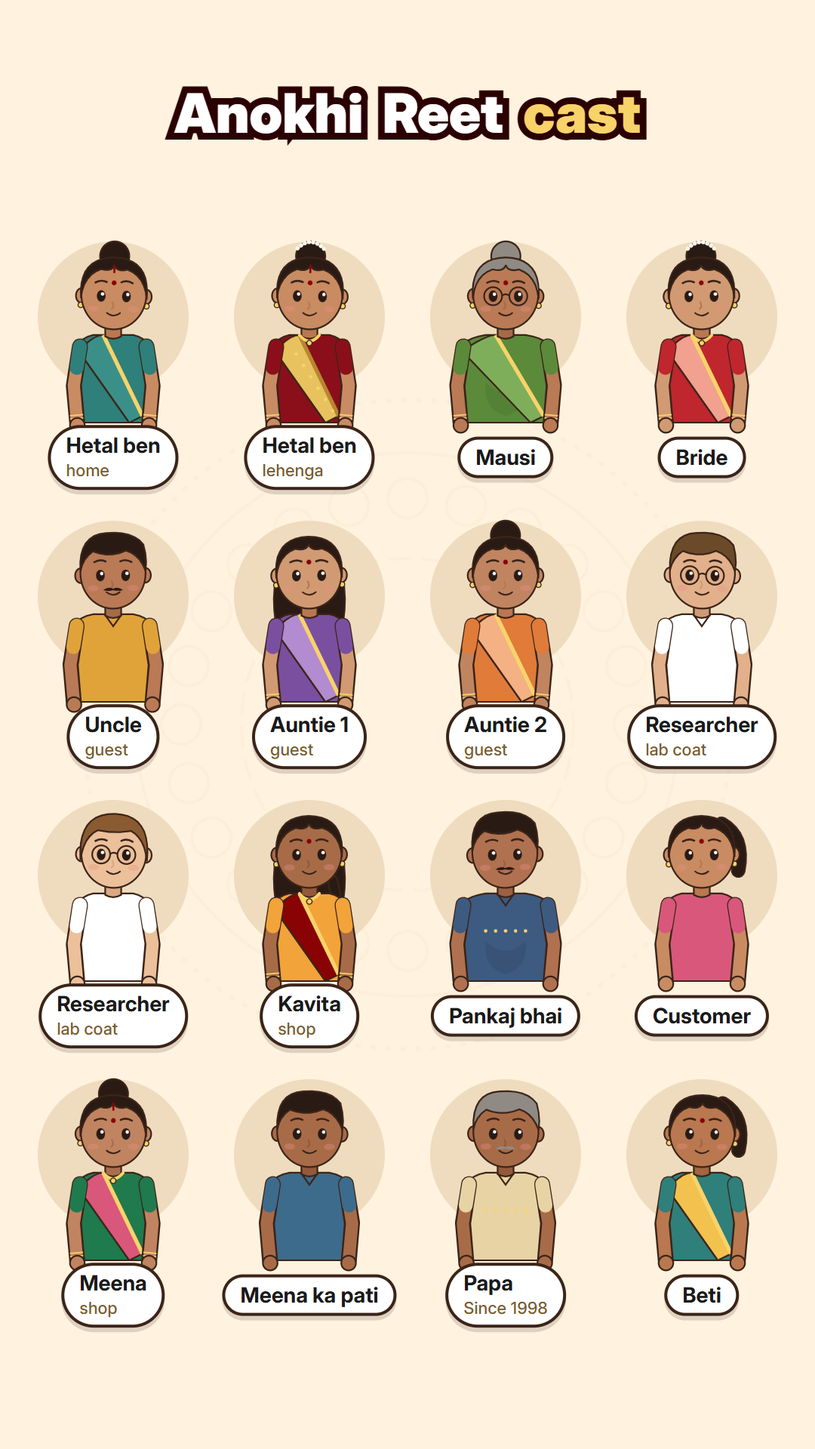
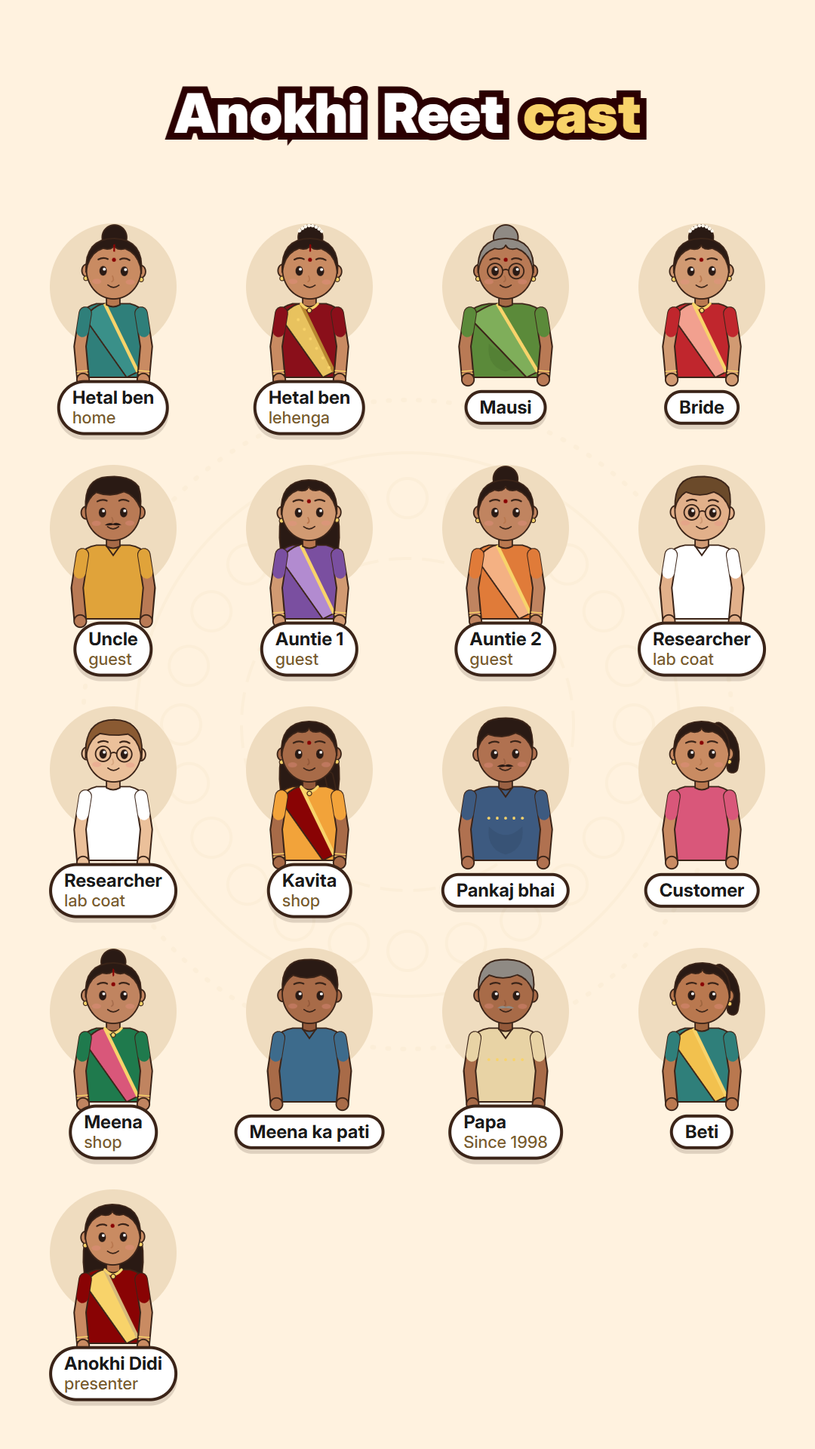
Lehenga 2X: 10 scenes, video 1; coin jar, map spotlight and Anokhi Didi in the library

diff --git a/reels/2026-11-18-lehenga-2x/video/scenes.js b/reels/2026-11-18-lehenga-2x/video/scenes.js
@@ -1,32 +1,131 @@
-// ===== Starter reel: copy this folder into reels/<date>-<name>/video and replace everything with your story =====
-// Characters: animation/cast/cast.js. Rooms, props, helpers: animation/engine/. Guide: animation/GUIDE.md.
+// ===== Lehenga 2X (Anokhi Didi): 11 scenes, timed to the voice (see captions.js) =====
+// Anokhi Didi (DIDI, new) speaks to camera: she lip-syncs (speak) whenever she's on screen.
+const at = (x, y, inner, sc = 1, r = 0) => `<g transform="translate(${x},${y}) rotate(${r}) scale(${sc})">${inner}</g>`;
+const wrap = (id, inner) => `<g id="${id}">${inner}</g>`;
+const BRIDAL = { c: '#C0262D', d: '#97151B', b: C.gold, dupatta: '#F2A08F' };
+const talk = t => t < VOICE_END;
+const listCard = `<rect x="-240" y="-330" width="480" height="560" rx="20" fill="#fff" stroke="#E6E0D9" stroke-width="3"/><rect x="-220" y="-310" width="440" height="330" rx="14" fill="${C.cream}"/>` +
+  `<g transform="translate(0,-150) scale(.75)">${lehengaHangerSVG('', BRIDAL)}</g><text x="-220" y="80" font-family="Inter" font-weight="800" font-size="34" fill="#141110">Bridal lehenga</text>` +
+  `<text x="-220" y="124" font-family="Inter" font-weight="600" font-size="26" fill="#655C57">Size M · L · Ahmedabad</text><rect x="-220" y="150" width="440" height="64" rx="32" fill="url(#mar)"/><text x="0" y="192" text-anchor="middle" font-family="Inter" font-weight="800" font-size="28" fill="#FFF2DF">Book karo</text>`;
+const AREAS = [['Navrangpura', -250, -380], ['Maninagar', 250, 250], ['Bopal', -320, 330], ['Satellite', 260, -260], ['Naroda', 0, 480]];
+const SHOP = [-90, 120], PINS = [[-250, -430], [250, 200], [-320, 280], [260, -310], [0, 430]];
 
-// S1 hook: the strongest picture + an outlined title in the first frame
+// ================= S1: hook — the lehenga can earn double =================
 addScene(0, 'c3', {
-  svg: homeBG('st1', { noWindow: true, noShelf: true, noClock: true }) + `<circle cx="540" cy="800" r="420" fill="url(#glow)"/>` +
-    `<g id="st1-l">${lehengaHangerSVG('st1-lh')}</g>` +
-    `<g transform="translate(790,560)"><g data-t="c2+0.3" data-swing="9">${priceTagSVG('st1-tag', '1 baar?', 0, 0, { fs: 36 })}</g></g>`,
-  html: `<div class="title" style="top:392px">Shaadi ka outfit,<br><span class="g">kitni baar?</span></div>`,
-  cam: [1, 1.05], fy: 800,
-  upd(t) { tf($('st1-l'), 540, 720 + Math.sin(t * 1.4) * 6, 1.25, noise(t, 1) * 2, 0, -80); }
+  svg: `<rect width="${W}" height="${H}" fill="${C.cream}"/>` + rosettes('d1-r', 540, 900, .12, C.goldTan) + `<circle cx="540" cy="900" r="460" fill="url(#glow)"/>` +
+    `<g id="d1-l">${at(0, 0, lehengaHangerSVG('d1-lh', BRIDAL), 1.45)}</g>` + `<rect x="0" y="${FLOOR + 120}" width="${W}" height="${H}" fill="#F3E3C0"/>`,
+  html: `<div class="title" style="top:470px;font-size:220px;-webkit-text-stroke:26px #2b0001"><span class="g">2X</span></div>` +
+    `<div class="title" style="top:640px;font-size:64px" data-t="c2">kamaai <span class="g">doguna!</span></div>`,
+  cam: [1, 1.05], fy: 900,
+  upd(t) { tf($('d1-r'), 540, 900, 1, t * 6); tf($('d1-l'), 540, 860 + Math.sin(t * 1.4) * 8, 1, noise(t, 2) * 2); }
 });
 
-// S2 meet the character: name pill, a wave, eyes on camera, then a look at the outfit
-addScene('c3', 'c4', {
-  svg: homeBG('st2') + stand('st2h', dress(HETAL.home, { top: C.pink, topD: C.pinkDark, pallu: '#F4B9C8' }), 560, 940, .95),
-  html: pillH(540, 352, 'c3+0.3', 'Surat, <span class="hl">Gujarat</span>'),
+// ================= S2: "Toh guys, ye hai ek bridal lehenga" — ₹25,000 in 2023 =================
+addScene('c3', 'c7', {
+  svg: rentalShopBG('d2', { noMirror: true }) + `<circle cx="300" cy="860" r="320" fill="url(#glow)"/>` + at(300, 760, lehengaHangerSVG('d2-lh', BRIDAL), 1.1) +
+    priceTag('d2-tag', '₹25,000', 300, 560, 'c6', { fs: 40, swing: 12 }) +
+    `<g transform="translate(170,520)"><g data-t="c5+0.3">${at(0, 0, calendarSVG('d2-cal', 'SAAL', '2023'), .5)}</g></g>` + wrap('d2-w', stand('di2', DIDI, 0, 960, .88)),
+  html: pillH(540, 352, 'c3+0.3', '<span class="hl">Bridal</span> lehenga'),
   upd(t) {
-    const w = clamp((t - T('c3')) / .35);
-    const R = [lerp(9, WAVE(t, T('c3'))[0], E.io(w)), lerp(-14, WAVE(t, T('c3'))[1], E.io(w))];
-    life('st2h', t, { mouth: 'big', brows: 'up', R, hR: w > .5 ? 'open' : 'fist', tilt: 4, look: [0.2, 0] });
-    clockTick('st2-clk', t, 50);
+    const [gx, gy] = glide(t, T('c3') - .2, .9, 1200, 770); tf($('d2-w'), gx, gy, 1);
+    const w = clamp((t - T('c3') - .6) / .3) * (1 - clamp((t - T('c4')) / .3)), pt = t > T('c4');
+    life('di2', t, { speak: talk(t), look: pt ? [-0.9, 0] : [0, 0], brows: 'up', tilt: 3, R: [lerp(9, WAVE(t, T('c3'))[0], E.io(w)), lerp(-14, WAVE(t, T('c3'))[1], E.io(w))], hR: w > .5 ? 'open' : 'fist', L: pt ? [72, 2] : [9, -14], hL: 'point' });
   }
 });
 
-// S3 follow card
-addScene('c4', 9999, {
-  svg: homeBG('st3', { noWindow: true, noShelf: true, noClock: true }) + rosettes('st3-r', 540, 780, .1, C.goldTan) + bust('st3h', HETAL.home, 540, FLOOR + 10, 1.1) + counterSVG(),
-  html: `<div class="follow" style="left:540px;top:500px" data-t="c4+0.2"><img class="seal" src="${SEAL()}"><span class="nm">Anokhi Reet</span><span class="btn">Follow</span></div>`,
-  noWm: true, tin: .3, trans: 'rise',
-  upd(t) { tf($('st3-r'), 540, 780, 1, t * 5); life('st3h', t, { pivot: 0, mouth: 'grin', brows: 'up', tilt: 4, L: CLASP, R: CLASP }); }
+// ================= S3: ₹2,500 rent — 10 times = money back, 20 times = double =================
+addScene('c7', 'c12', {
+  svg: `<rect width="${W}" height="${H}" fill="#F3E3C0"/>` + rosettes('d3-r', 540, 900, .07, C.goldTan) +
+    at(300, 900, coinJarSVG('d3-j1', 10, '₹25,000'), 1.15) + at(780, 900, coinJarSVG('d3-j2', 10, '2X'), 1.15) +
+    `<g transform="translate(540,1250)"><g data-t="c8-0.1"><rect x="-150" y="-50" width="300" height="100" rx="50" fill="url(#mar)" stroke="${OL}" stroke-width="${OW}"/><text id="d3-n" y="20" text-anchor="middle" font-family="Inter" font-weight="900" font-size="56" fill="${C.gold}">0 baar</text></g></g>`,
+  html: pillH(540, 352, 'c7', 'Rent: <span class="hl">₹2,500</span>', 'big', 'c9') + pillH(300, 560, 'c9+0.1', 'Paisa <span class="hl">wapas ✓</span>', 'green') +
+    `<div class="title" style="top:430px" data-t="c11">20 baar = <span class="g">2X</span></div>`,
+  upd(t) {
+    jarFill('d3-j1', 10, t, T('c8'), 1.2); jarFill('d3-j2', 10, t, T('c10'), 1.0);
+    const n = t < T('c10') ? Math.round(lerp(0, 10, clamp((t - T('c8')) / 1.4))) : Math.round(lerp(10, 20, clamp((t - T('c10')) / 1.2)));
+    $('d3-n').textContent = `${n} baar`; tf($('d3-r'), 540, 900, 1, t * 5);
+  }
+});
+
+// ================= S4: but it went out only 4 times a year =================
+const MONTHS = ['Jan', 'Feb', 'Mar', 'Apr', 'May', 'Jun', 'Jul', 'Aug', 'Sep', 'Oct', 'Nov', 'Dec'], OUT = [1, 4, 9, 10];
+addScene('c12', 'c15', {
+  svg: shopBG('d4', { noSign: true, noRail: true }) + `<rect width="${W}" height="${H}" fill="#3B2418" opacity=".12"/>` +
+    at(260, 700, lehengaHangerSVG('d4-lh', BRIDAL), 1.0) + at(60, 420, cobwebSVG(1.2)) +
+    MONTHS.map((m, i) => `<g transform="translate(${560 + (i % 4) * 120},${570 + (i / 4 | 0) * 118})"><g data-t="c13+${(i * .12).toFixed(2)}"><rect x="-50" y="-50" width="100" height="100" rx="14" fill="#fff" stroke="${OL}" stroke-width="4"/><rect x="-50" y="-50" width="100" height="30" rx="14" fill="${C.red}"/><text y="30" text-anchor="middle" font-family="Inter" font-weight="800" font-size="28" fill="#141110">${m}</text>${OUT.includes(i) ? `<g data-t="c14+${(.2 + OUT.indexOf(i) * .2).toFixed(1)}"><circle cx="44" cy="-44" r="22" fill="${C.emerald}" stroke="${OL}" stroke-width="3"/><path d="M33,-44 l7,7 14,-14" stroke="#fff" stroke-width="6" fill="none" stroke-linecap="round"/></g>` : ''}</g></g>`).join('') +
+    bust('di4', DIDI, 700, FLOOR + 40, .66) + counterSVG(),
+  html: `<div class="title" style="top:410px" data-t="c14">Saal mein sirf <span class="g">4 baar</span></div>`,
+  upd(t) { life('di4', t, { pivot: 0, speak: talk(t), look: [-0.8, -0.3], brows: t > T('c14') ? 'worry' : 'up', tilt: Math.sin(t * 3) * 3, L: [50, -30], hL: 'open' }); }
+});
+
+// ================= S5: only the street could see it; the rest of the city didn't know =================
+addScene('c15', 'c19', {
+  svg: `<rect width="${W}" height="${H}" fill="#F3E3C0"/><g transform="translate(540,840) scale(.8)">${cityMapSVG('d5-map', AREAS)}${mapSpotSVG('d5-spot')}` +
+    `<g transform="translate(${SHOP[0]},${SHOP[1]})">${mapPinSVG(C.red, 44)}</g>` +
+    [[-30, 60], [-150, 80], [-40, 200]].map(([x, y], i) => `<g transform="translate(${x},${y})"><g data-t="c16+${(.2 + i * .2).toFixed(1)}">${at(0, 0, personIcon([C.pink, C.teal, C.marigold][i]), .8)}</g></g>`).join('') +
+    PINS.map(([x, y], i) => `<g transform="translate(${x},${y + 40})"><g data-t="c17+${(.1 + i * .2).toFixed(1)}"><circle r="40" fill="#fff" stroke="${OL}" stroke-width="4"/><text y="18" text-anchor="middle" font-family="Inter" font-weight="900" font-size="52" fill="${C.red}">?</text></g></g>`).join('') + `</g>`,
+  html: pillH(540, 352, 'c16', 'Sirf <span class="hl">gali</span> ke customers', 'big', 'c17-0.05') + pillH(540, 352, 'c17', 'Baaki shehar: <span class="hl">pata hi nahi</span>', 'big'),
+  init() { mapSpot('d5-spot', SHOP[0], SHOP[1] - 40, 180); },
+  cam: [1, 1.04], fy: 840
+});
+
+// ================= S6: the right platform — Anokhi Reet =================
+addScene('c19', 'c22', {
+  svg: shopBG('d6', { noSign: true }) + bust('di6', DIDI, 330, FLOOR + 30, 1.0) + counterSVG() + wrap('d6-ph', at(0, 0, phoneSVG('d6-p', 0, 0, 560, 1000, arHeader() + listCard), .62)),
+  html: pillH(540, 352, 'c20', 'Ek <span class="hl">sahi platform</span>', 'big', 'c21-0.05') + pillH(540, 352, 'c21', '<span class="hl">Anokhi Reet</span>', 'gold big'),
+  upd(t) {
+    const up = E.back(clamp((t - T('c20') + .2) / .5));
+    const { hr } = life('di6', t, { pivot: 0, speak: talk(t), look: [0.6, -0.2], mouth: 'smile', brows: 'up', tilt: 4, R: [lerp(9, 60, up), lerp(-14, -80, up)], hR: 'fist' });
+    const p = toScene('di6', hr); tf($('d6-ph'), lerp(1300, p[0] + 230, up), p[1] - 200, 1, -4 * up); op($('d6-ph'), up > 0 ? 1 : 0);
+  }
+});
+
+// ================= S7: list it once — the whole city can see it =================
+addScene('c22', 'c25', {
+  svg: `<rect width="${W}" height="${H}" fill="#F3E3C0"/><g transform="translate(540,840) scale(.8)">${cityMapSVG('d7-map', AREAS)}${mapSpotSVG('d7-spot')}` +
+    PINS.map(([x, y], i) => `<path id="d7-l${i}" d="M${x},${y} L${SHOP[0]},${SHOP[1]}" stroke="${C.red}" stroke-width="6" stroke-dasharray="14 10" fill="none" opacity="0"/>`).join('') +
+    `<circle cx="${SHOP[0]}" cy="${SHOP[1] - 40}" r="150" fill="url(#glow)"/><g transform="translate(${SHOP[0]},${SHOP[1]})">${mapPinSVG(C.red, 44)}</g>` +
+    PINS.map(([x, y], i) => `<g transform="translate(${x},${y})"><g data-t="c24+${(i * .2).toFixed(1)}" data-k="drop">${mapPinSVG(C.emerald, 30)}</g></g>`).join('') + `</g>`,
+  html: pillH(540, 352, 'c22', 'Ek baar <span class="hl">list karo</span>', 'big', 'c24-0.05') + pillH(540, 352, 'c24', '<span class="hl">Poora shehar</span> dekh sakta hai', 'big') +
+    `<div class="pill" style="left:540px;top:1230px" data-t="c24+0.8" data-k="slideL">✓ New booking · <span class="hl">Satellite</span></div>`,
+  cam: [1, 1.04], fy: 840,
+  upd(t) {
+    { const k = E.io(clamp((t - T('c23')) / 1.6)); mapSpot('d7-spot', SHOP[0], SHOP[1] - 40, lerp(180, 520, k)); op($('d7-spot'), 1 - k); }
+    PINS.forEach((_, i) => { const k = clamp((t - T('c24') - .2 - i * .2) / .4); const el = $('d7-l' + i); op(el, k); el.setAttribute('stroke-dashoffset', (-t * 30).toFixed(0)); });
+  }
+});
+
+// ================= S8: you list; showing it to the whole city is our job =================
+addScene('c25', 'c28', {
+  svg: rentalShopBG('d8', { noMirror: true }) + `<circle cx="540" cy="820" r="460" fill="url(#glow)" opacity=".6"/>` + bust('di8', DIDI, 540, FLOOR + 20, 1.1) + counterSVG(),
+  html: pillH(540, 352, 'c25+0.2', 'Aap: <span class="hl">list karo</span>', 'big') + pillH(540, 466, 'c26+0.2', 'Anokhi Reet: <span class="hl">shehar ko dikhana</span>', 'gold big'),
+  upd(t) {
+    const me = t > T('c26');
+    life('di8', t, { pivot: 0, speak: talk(t), look: [0, 0], mouth: 'smile', brows: 'up', tilt: 3, R: me ? [9, -14] : [70, 4], hR: 'point', L: me ? CLASP : [9, -14], nod: me ? Math.max(0, Math.sin((t - T('c27')) * 6)) * 6 : 0 });
+  }
+});
+
+// ================= S9: just trust, and a little time =================
+addScene('c28', 'c30', {
+  svg: shopBG('d9', { noSign: true }) + clockSVG('d9-clk', 860, 560, 64) + `<g transform="translate(220,560)"><g data-t="c28+0.2" data-bob="8">${heartPath(0, 0, 3.4)}</g></g>` +
+    bust('di9', DIDI, 540, FLOOR + 20, 1.1) + counterSVG(),
+  html: pillH(540, 352, 'c28', '<span class="hl">Bharosa</span> + thoda <span class="hl">time</span>', 'big'),
+  upd(t) { clockTick('d9-clk', t, 20); life('di9', t, { pivot: 0, speak: talk(t), look: [0, 0], mouth: 'smile', brows: 'norm', tilt: 5, L: [20, -110], R: [20, -110], hL: 'open', hR: 'open', blush: .4 }); }
+});
+
+// ================= S10: list your shop today + follow =================
+addScene('c30', 9999, {
+  svg: shopBG('d10', { sign: 'ANOKHI REET' }) + rosettes('d10-r', 540, 780, .08, C.goldTan) + bust('di10', DIDI, 540, FLOOR + 10, 1.1) + counterSVG(),
+  html: pillH(540, 380, 'c30+0.1', 'Shop · <span class="hl">Boutique</span> · Studio', '', 'c31+0.6') +
+    pillH(540, 490, 'c31', 'Aaj hi <span class="hl">Anokhi Reet</span> pe list karo!', 'gold big', 'c31+0.6') +
+    `<div class="follow" style="left:540px;top:500px" data-t="c31+0.7"><img class="seal" src="${SEAL()}"><span class="nm">Anokhi Reet</span><span class="btn" id="d10-b"><span id="d10-f">Follow</span></span></div>`,
+  noWm: true,
+  upd(t) {
+    tf($('d10-r'), 540, 780, 1, t * 5);
+    const w = clamp((t - T('c31') - .3) / .4);
+    life('di10', t, { pivot: 0, speak: talk(t), mouth: 'big', brows: 'up', tilt: 4, R: [lerp(9, WAVE(t, T('c31'))[0], E.io(w)), lerp(-14, WAVE(t, T('c31'))[1], E.io(w))], hR: w > .5 ? 'open' : 'fist', L: t > T('c30') && w < .5 ? [130, 10] : [9, -14], hL: 'point' });
+    const tp = VOICE_END + .3, press = t > tp && t < tp + .25 ? .92 : 1;
+    const b = $('d10-b'); b.style.transform = `scale(${press})`; b.style.display = 'inline-block';
+    const done = t > tp + .12; $('d10-f').textContent = done ? 'Following ✓' : 'Follow'; b.style.background = done ? '#E3F3EA' : '#890304'; b.style.color = done ? '#1F7A4D' : '#FFF2DF';
+  }
 });

diff --git a/reels/2026-11-18-lehenga-2x/video/captions.js b/reels/2026-11-18-lehenga-2x/video/captions.js
@@ -1,11 +1,74 @@
 // Caption chunks: [id, Roman Hinglish caption (*gold* words), number of script.txt words it covers]
-// tools/caption_timing.py fills STARTS / VOICE_END / DURATION from the voice (re-run after every voice take).
+// tools/caption_timing.py fills STARTS / WORDS / VOICE_END / DURATION from the voice (re-run after every voice take).
 const CHUNKS = [
-  ['c1', 'Ek *sawaal*:', 2],
-  ['c2', 'shaadi ka outfit *kitni baar* pehnte ho?', 6],
-  ['c3', 'Ye hain *Hetal ben*.', 4],
-  ['c4', 'Follow karo *Anokhi Reet.*', 4],
+  ['c1', 'Jitne mein ye lehenga khareeda tha...', 6],
+  ['c2', 'usse *doguna* kama sakta hai.', 5],
+  ['c3', 'Toh guys, ye hai ek *bridal lehenga.*', 7],
+  ['c4', 'Ye jo aap dekh rahe ho,', 6],
+  ['c5', 'ye shop waale ne *2023* mein', 8],
+  ['c6', '*₹25,000* mein khareeda tha.', 5],
+  ['c7', '*₹2,500* rent pe', 4],
+  ['c8', '*10 baar* gaya,', 3],
+  ['c9', 'toh *poora paisa wapas.*', 4],
+  ['c10', '*20 baar* gaya,', 3],
+  ['c11', 'toh *seedha doguna.*', 3],
+  ['c12', 'Par hua kya?', 3],
+  ['c13', 'Poore saal mein ye lehenga', 5],
+  ['c14', 'sirf *4 baar* bahar nikla.', 5],
+  ['c15', 'Kyon? Kyunki ise', 3],
+  ['c16', 'sirf *gali ke customers* dekh paate the.', 7],
+  ['c17', 'Baaki shehar ko pata hi nahi tha', 7],
+  ['c18', 'ki ye lehenga hai bhi.', 5],
+  ['c19', 'Isiliye bolte hain,', 3],
+  ['c20', 'ek *sahi platform* hona bahut zaroori hai...', 7],
+  ['c21', 'jo hai *Anokhi Reet.*', 4],
+  ['c22', 'Ek baar *list karke dekho...*', 5],
+  ['c23', 'phir aapka lehenga sirf gali nahi,', 6],
+  ['c24', '*poora shehar* dekh sakta hai.', 5],
+  ['c25', 'Aapko sirf apne outfits *list* karne hain.', 7],
+  ['c26', 'Unhe poore shehar ke customers ko dikhana,', 7],
+  ['c27', '*hamaara kaam* hai.', 3],
+  ['c28', 'Bas *bharosa* rakhna padega,', 4],
+  ['c29', 'aur thoda sa *time* dena padega.', 6],
+  ['c30', 'Apni shop, boutique ya studio', 5],
+  ['c31', 'aaj hi *Anokhi Reet* pe list karo!', 7],
 ];
-// Chunk start times (s): placeholder until a voice exists.
-const STARTS = [0.2, 1.6, 4.4, 6.6];
-const VOICE_END = 8.6, DURATION = 9.6;
+
+// Chunk start times (s): tools/caption_timing.py (faster-whisper, 116 of 158 words matched), voice female-lehenga-2x-take1.mp3.
+const STARTS = [
+  0.19, 1.47, 3.48, 5.90, 6.72, 8.76, 10.09, 11.40, 12.32, 13.73, 14.50, 15.97, 17.09, 18.32, 20.50, 20.94,
+  22.48, 24.22, 25.44, 26.54, 28.60, 30.04, 31.64, 33.00, 34.70, 36.68, 38.88, 39.60, 41.04, 42.50, 44.30];
+// When each script word of a chunk is spoken (drives the word-by-word highlight).
+const WORDS = [
+  [0.27, 0.64, 0.74, 0.82, 1.16, 1.28],
+  [1.55, 1.98, 2.57, 2.92, 3.2],
+  [3.56, 3.61, 4.14, 4.54, 4.74, 4.9, 5.36],
+  [5.98, 6.08, 6.18, 6.32, 6.44, 6.64],
+  [6.8, 7.12, 7.44, 7.66, 7.78, 7.98, 8.28, 8.64],
+  [8.84, 9.36, 9.62, 9.72, 9.84],
+  [10.17, 10.71, 10.96, 11.36],
+  [11.48, 11.76, 12.12],
+  [12.4, 12.6, 12.9, 13.16],
+  [13.81, 13.86, 14.28],
+  [14.58, 14.7, 15.16],
+  [16.05, 16.4, 16.6],
+  [17.17, 17.5, 17.8, 17.94, 18.06],
+  [18.4, 18.7, 19.04, 19.24, 19.36],
+  [20.58, 20.7, 20.91],
+  [21.02, 21.2, 21.52, 21.64, 22.0, 22.2, 22.4],
+  [22.56, 23.28, 23.5, 23.62, 23.83, 24.0, 24.2],
+  [24.3, 24.44, 24.52, 24.82, 24.94],
+  [25.52, 26.1, 26.4],
+  [26.62, 26.78, 27.14, 27.58, 27.82, 28.3, 28.56],
+  [28.68, 29.16, 29.34, 29.9],
+  [30.12, 30.54, 30.66, 30.95, 31.24],
+  [31.72, 31.84, 32.05, 32.37, 32.66, 32.96],
+  [33.08, 33.4, 33.66, 33.92, 34.23],
+  [34.78, 34.83, 35.5, 35.74, 36.24, 36.44, 36.68],
+  [36.76, 37.24, 37.66, 37.98, 38.1, 38.48, 38.62],
+  [38.96, 39.38, 39.58],
+  [39.68, 40.14, 40.56, 40.8],
+  [41.12, 41.36, 41.68, 41.78, 42.04, 42.24],
+  [42.58, 42.7, 43.06, 43.67, 43.9],
+  [44.38, 44.61, 44.84, 45.32, 45.68, 45.8, 46.04]];
+const VOICE_END = 46.2, DURATION = 47.69;

diff --git a/animation/cast/sheet/video/scenes.js b/animation/cast/sheet/video/scenes.js
@@ -2,14 +2,14 @@
 const SHEET = [
   ['cs1', 'Hetal ben', 'home', HETAL.home], ['cs2', 'Hetal ben', 'lehenga', HETAL.lehenga], ['cs3', 'Mausi', '', MAUSI],
   ['cs4', 'Bride', '', BRIDE], ['cs5', 'Uncle', 'guest', GUEST_M], ['cs6', 'Auntie 1', 'guest', GUEST_W1],
-  ['cs7', 'Auntie 2', 'guest', GUEST_W2], ['cs8', 'Researcher', 'lab coat', LAB_M], ['cs9', 'Researcher', 'lab coat', LAB_W], ['cs10', 'Kavita', 'shop', KAVITA.shop], ['cs11', 'Pankaj bhai', '', PANKAJ], ['cs12', 'Customer', '', CUSTOMER_W], ['cs13', 'Meena', 'shop', MEENA.shop], ['cs14', 'Meena ka pati', '', PATI], ['cs15', 'Papa', 'Since 1998', PAPA.shop], ['cs16', 'Beti', '', BETI],
+  ['cs7', 'Auntie 2', 'guest', GUEST_W2], ['cs8', 'Researcher', 'lab coat', LAB_M], ['cs9', 'Researcher', 'lab coat', LAB_W], ['cs10', 'Kavita', 'shop', KAVITA.shop], ['cs11', 'Pankaj bhai', '', PANKAJ], ['cs12', 'Customer', '', CUSTOMER_W], ['cs13', 'Meena', 'shop', MEENA.shop], ['cs14', 'Meena ka pati', '', PATI], ['cs15', 'Papa', 'Since 1998', PAPA.shop], ['cs16', 'Beti', '', BETI], ['cs17', 'Anokhi Didi', 'presenter', DIDI],
 ];
-const XS = [150, 410, 670, 930], YS = [560, 930, 1300, 1670];
+const XS = [150, 410, 670, 930], YS = [500, 820, 1140, 1460, 1780];
 addScene(0, 99, {
   svg: `<rect width="${W}" height="${H}" fill="${C.cream}"/>` + rosettes('cs-r', 540, 960, .07, C.goldTan) +
-    SHEET.map(([id, , , look], i) => `<circle cx="${XS[i % 4]}" cy="${YS[(i / 4) | 0] - 140}" r="100" fill="${C.wallLow}"/>` + bust(id, look, XS[i % 4], YS[(i / 4) | 0], .44)).join(''),
+    SHEET.map(([id, , , look], i) => `<circle cx="${XS[i % 4]}" cy="${YS[(i / 4) | 0] - 120}" r="84" fill="${C.wallLow}"/>` + bust(id, look, XS[i % 4], YS[(i / 4) | 0], .37)).join(''),
   html: `<div class="title" style="top:150px;font-size:72px">Anokhi Reet <span class="g">cast</span></div>` +
-    SHEET.map(([, name, note], i) => `<div class="pill" style="left:${XS[i % 4]}px;top:${YS[(i / 4) | 0] + 46}px;font-size:28px;padding:8px 20px">${name}${note ? `<br><span style="font-weight:500;color:#7A5C2E;font-size:22px">${note}</span>` : ''}</div>`).join(''),
+    SHEET.map(([, name, note], i) => `<div class="pill" style="left:${XS[i % 4]}px;top:${YS[(i / 4) | 0] + 40}px;font-size:24px;padding:6px 16px">${name}${note ? `<br><span style="font-weight:500;color:#7A5C2E;font-size:22px">${note}</span>` : ''}</div>`).join(''),
   noWm: true, noCap: true, cam: [1, 1], noSettle: true,
   upd(t) { SHEET.forEach(([id], i) => life(id, 0.6, { pivot: 0, seed: i, mouth: 'smile', brows: 'norm', sway: 0, L: [9, -14], R: [9, -14] })); }
 });

diff --git a/animation/engine/props.js b/animation/engine/props.js
@@ -203,3 +203,22 @@ function cobwebSVG(sc = 1) {
   for (const R of [40, 80, 120]) { let d = ''; [0, 22, 45, 68, 90].forEach((a, i) => { const r = a * Math.PI / 180; d += `${i ? 'Q' + (Math.cos(r - .2) * R * .86).toFixed(0) + ',' + (Math.sin(r - .2) * R * .86).toFixed(0) + ' ' : 'M'}${(Math.cos(r) * R).toFixed(0)},${(Math.sin(r) * R).toFixed(0)} `; }); s += `<path d="${d}"/>`; }
   return s + `</g>`;
 }
+
+// ===== Lehenga 2X (2026-11-18): coin jar that fills to a line, city map spotlight =====
+// coinJarSVG(id, n, label): a glass jar with n coins `${id}-k${i}` (bottom first; show them with jarFill) and a dashed
+// target line with a label at the n-th coin. jarFill(id, n, t, t0, d) drops the coins in one by one over d seconds.
+function coinJarSVG(id, n = 10, label = '') {
+  const pos = [...Array(n)].map((_, i) => [-84 + (i % 4) * 56 + ((i / 4 | 0) % 2) * 28, 150 - (i / 4 | 0) * 30]);
+  const topY = pos[n - 1][1] - 30;
+  return `<g id="${id}">${jarSVG(0)}` + pos.map(([x, y], i) => `<g transform="translate(${x},${y})"><g id="${id}-k${i}" opacity="0">${coinSVG(0, 0, 26)}</g></g>`).join('') + jarSVG(1) +
+    (label ? `<path d="M-160,${topY} H160" stroke="${C.red}" stroke-width="6" stroke-dasharray="16 10"/><g transform="translate(0,${topY - 40})"><rect x="-110" y="-26" width="220" height="52" rx="26" fill="#fff" stroke="${OL}" stroke-width="3"/><text y="10" text-anchor="middle" font-family="Inter" font-weight="800" font-size="28" fill="${C.red}">${label}</text></g>` : '') + `</g>`;
+}
+function jarFill(id, n, t, t0, d) {
+  for (let i = 0; i < n; i++) { const el = $(`${id}-k${i}`); if (!el) continue; const k = clamp((t - t0 - i * d / n) / .25); op(el, k > 0 ? 1 : 0); tf(el, 0, (1 - E.back(k)) * -120, 1); }
+}
+// mapSpotSVG(id, x, y): a grey veil over a cityMapSVG (same centre) with a round lit hole at (x, y); mapSpot(id, x, y, r)
+// changes the hole's size (r 0 = all grey, r 1400 = all lit).
+function mapSpotSVG(id) { return `<path id="${id}" fill="#5C554D" fill-opacity=".55" fill-rule="evenodd" d=""/>`; }
+function mapSpot(id, x, y, r) {
+  $(id).setAttribute('d', `M-470,-560 H470 V560 H-470 Z M${x - r},${y} a${r},${r} 0 1,0 ${2 * r},0 a${r},${r} 0 1,0 ${-2 * r},0 Z`);
+}

diff --git a/animation/cast/cast.js b/animation/cast/cast.js
@@ -71,3 +71,7 @@ const PAPA = {
   night: { male: true, mustache: true, glasses: true, hair: '#8F8A84', top: '#5B8A3A', topD: '#476F2D', skin: '#A86B48', skin2: '#93593A' },
 };
 const BETI = { hairStyle: 'pony', top: C.teal, topD: C.tealDark, pallu: '#F2C14E', border: C.gold, skin: '#B9784F', skin2: '#A0663F', bangles: false, skirt: { c: C.tealDark, d: '#174A47', b: C.gold, w: 200 } };
+
+// Anokhi Didi (30s): on-screen presenter who talks to camera ("Toh guys…"). Brand maroon kurta, gold dupatta.
+// (Lehenga 2X, 2026-11-18; owner to confirm the name and look before she becomes the channel's face.)
+const DIDI = { top: C.red, topD: C.redDark, pallu: C.gold, border: C.goldTan, hairStyle: 'long', skin: '#C98B62', skin2: '#B9784F', necklace: true, embroidery: true, skirt: { c: C.redDark, d: '#2b0001', b: C.gold, w: 210 } };

diff --git a/reels/2026-11-18-lehenga-2x/REEL.md b/reels/2026-11-18-lehenga-2x/REEL.md
@@ -2,7 +2,7 @@
 
 - **Date started:** 2026-11-18
 - **Made by:** teammate (script) + Claude
-- **Status:** script approved; voice take 1 waiting for a listen
+- **Status:** video 1 rendered (2026-11-18); sent to the teammate
 
 ## Brief
 
@@ -52,21 +52,30 @@ Voice script: [`script.txt`](script.txt) (Devanagari, female voice).
 
 ## Voice-over
 
-- Take 1: `output/female-lehenga-2x-take1.mp3` (46.5 s) — approved: pending
+- Take 1: `output/female-lehenga-2x-take1.mp3` (46.5 s) — approved: yes (2026-11-18)
 - Captions timed with `tools/caption_timing.py` (redo after every new take)
 
 ## Feedback rounds
 
 1. (round 0) Two guarantee lines softened; numbers as words; length about 50 s.
+2. Video 1: 10 scenes, `output/2026-11-18-lehenga-2x.mp4` (48 s).
 
 ## Caption
 
 ```
+Jitne mein lehenga khareeda tha… usse doguna kama sakta hai. 2X 👗
+₹25,000 ka bridal lehenga, ₹2,500 rent: 10 baar = paisa wapas, 20 baar = doguna.
+Par saal mein sirf 4 baar bahar nikla… kyunki sirf gali ke customers use dekh paate the.
+Aap outfits list karo, poore shehar ko dikhana hamaara kaam hai.
+👉 Apni shop, boutique ya studio aaj hi Anokhi Reet pe list karo.
+#AnokhiReet #LehengaOnRent #RentalBusiness #BoutiqueBusiness #BusinessTips
 ```
 
 ## Added to the library (at least two per reel)
 
-- (planned) Anokhi Didi (presenter) in the cast; "2X" big-number pop; coin jar with a target line.
+- Props: `coinJarSVG` + `jarFill` (a jar that fills coin by coin to a target line), `mapSpotSVG` + `mapSpot` (a grey
+  veil over a city map with a lit circle that can grow).
+- New cast: Anokhi Didi (`DIDI`), presenter who talks to camera with lip sync.
 
 ## Suggested default (for the owner)
 
@@ -75,4 +84,5 @@ Voice script: [`script.txt`](script.txt) (Devanagari, female voice).
 
 ## Lessons
 
--
+- Whisper matched this take well (116 of 158 words); no hand timing needed.
+- An even-odd "hole" bigger than its veil fills the outside: grow the hole a little, then fade the veil.

diff --git a/animation/cast/CAST.md b/animation/cast/CAST.md
@@ -25,6 +25,7 @@ characters are added here after their first reel (add them to `cast.js`, to the 
 | `PATI` | **Meena's husband**, 40s. Calm; asks the simple question that matters. | Short hair, blue shirt | Meena ki dukaan |
 | `PAPA.shop` / `.young` / `.night` | **Papa**, 50s-60s, has run his rental shop since 1998. Proud, warm, trusts face to face. | Grey hair, moustache, cream kurta (black hair when young; glasses at night) | Papa aur beti (2026-11-17) |
 | `BETI` | **Beti**, 20s, his daughter. Puts the shop online. | Ponytail, teal kurti, yellow dupatta | Papa aur beti |
+| `DIDI` | **Anokhi Didi**, 30s, presenter who talks to camera ("Toh guys…"). Owner to confirm her name and look. | Long hair, maroon kurta, gold dupatta, necklace | Lehenga 2X (2026-11-18) |
 
 Ideas for the cast's next members (make them when a story needs them): a young woman who rents for college
 functions, a groom or brother, a kid, a vendor on the Anokhi Reet app.

diff --git a/animation/CHANGELOG.md b/animation/CHANGELOG.md
@@ -3,6 +3,13 @@
 Every reel adds at least one improvement to the engine or library and writes it here (newest first).
 See [GUIDE.md](GUIDE.md) section 8.
 
+## 2026-11-18: coin jar, map spotlight, Anokhi Didi (Lehenga 2X)
+
+- **New props:** `coinJarSVG(id, n, label)` + `jarFill(id, n, t, t0, d)` (coins drop into a jar up to a dashed target
+  line, e.g. "paid back" / "2X"); `mapSpotSVG(id)` + `mapSpot(id, x, y, r)` (grey veil over `cityMapSVG` with a lit
+  circle around one shop; grow it and fade the veil to "show the whole city").
+- **New cast:** Anokhi Didi (`DIDI`), an on-screen presenter who talks to camera with lip sync (owner to confirm).
+
 ## 2026-11-17: shop front, split screen, Papa and beti (Papa aur beti)
 
 - **New sets** in `engine/sets.js`: `shopFrontBG(id, {cx, sign, since})` (a shop seen from the street: building,
